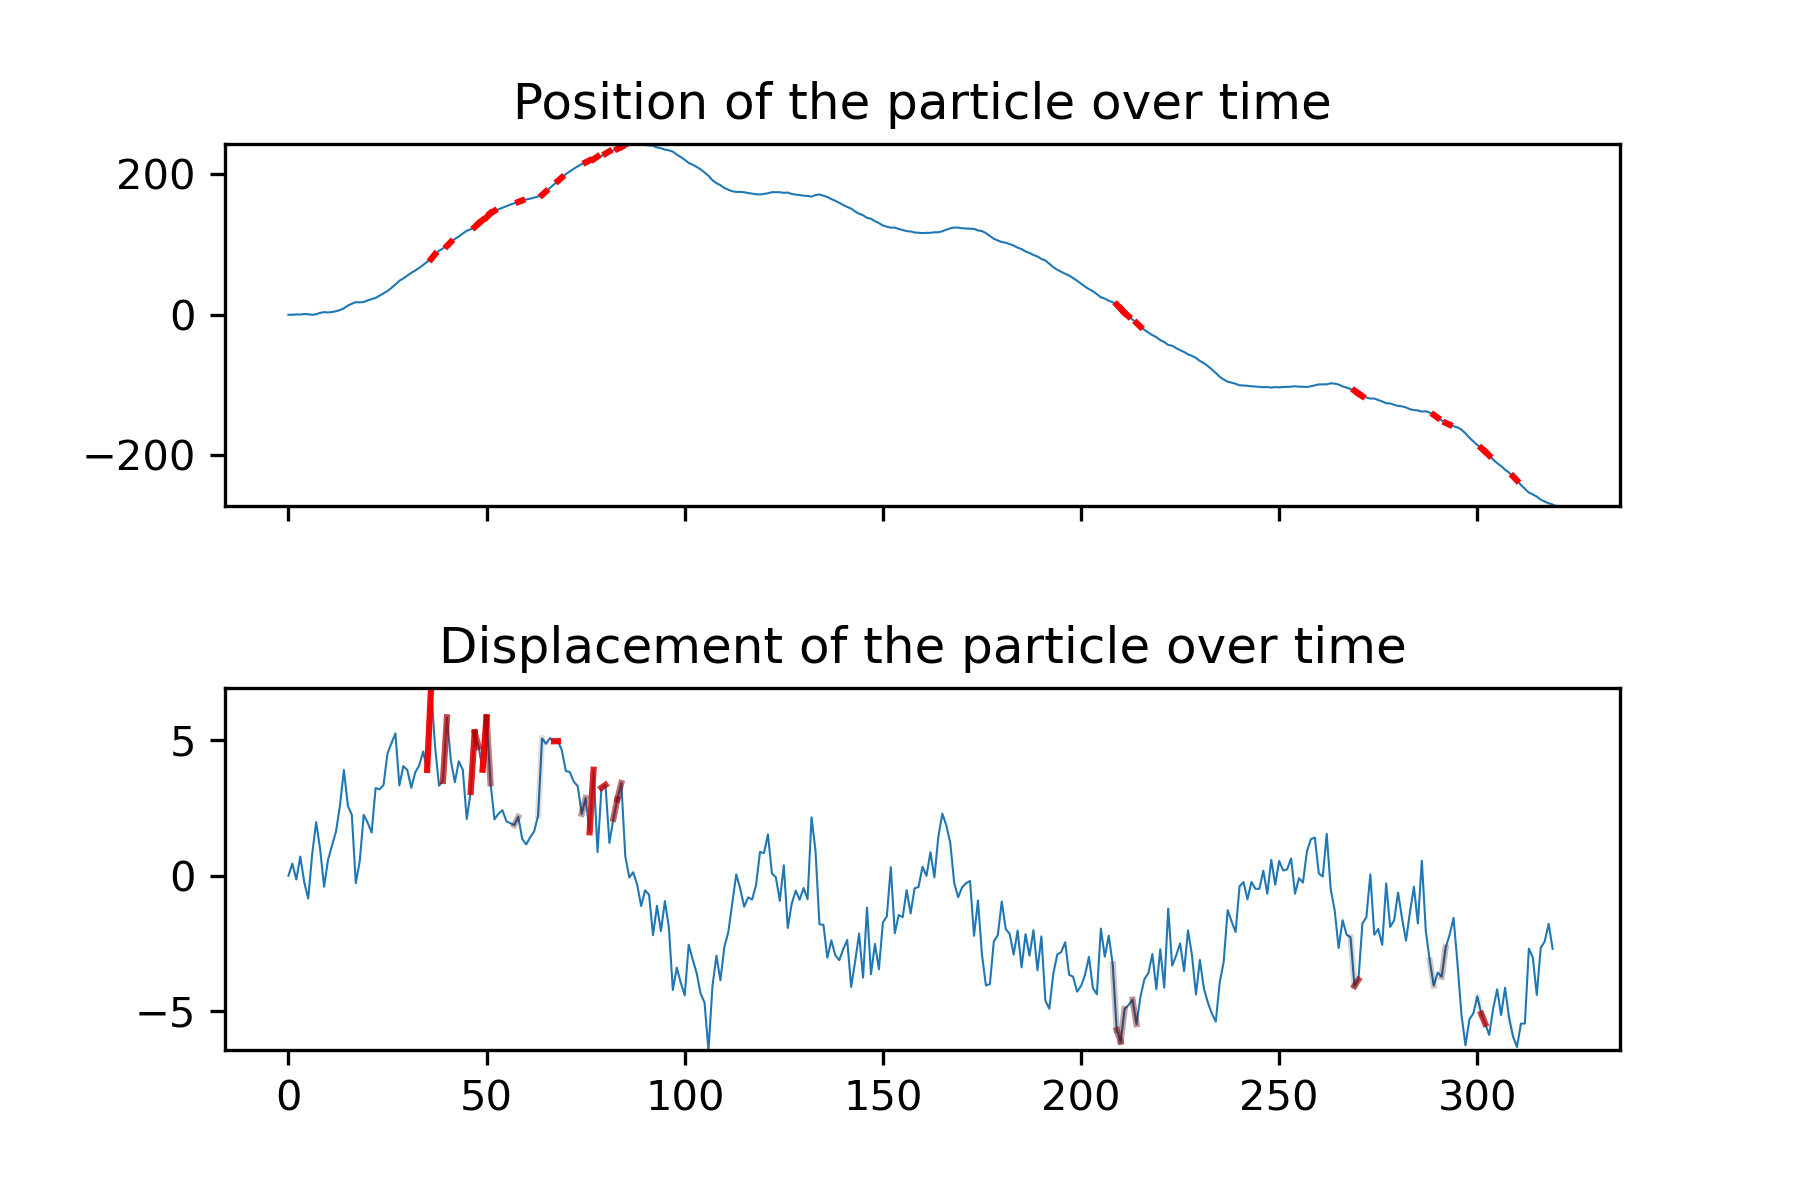
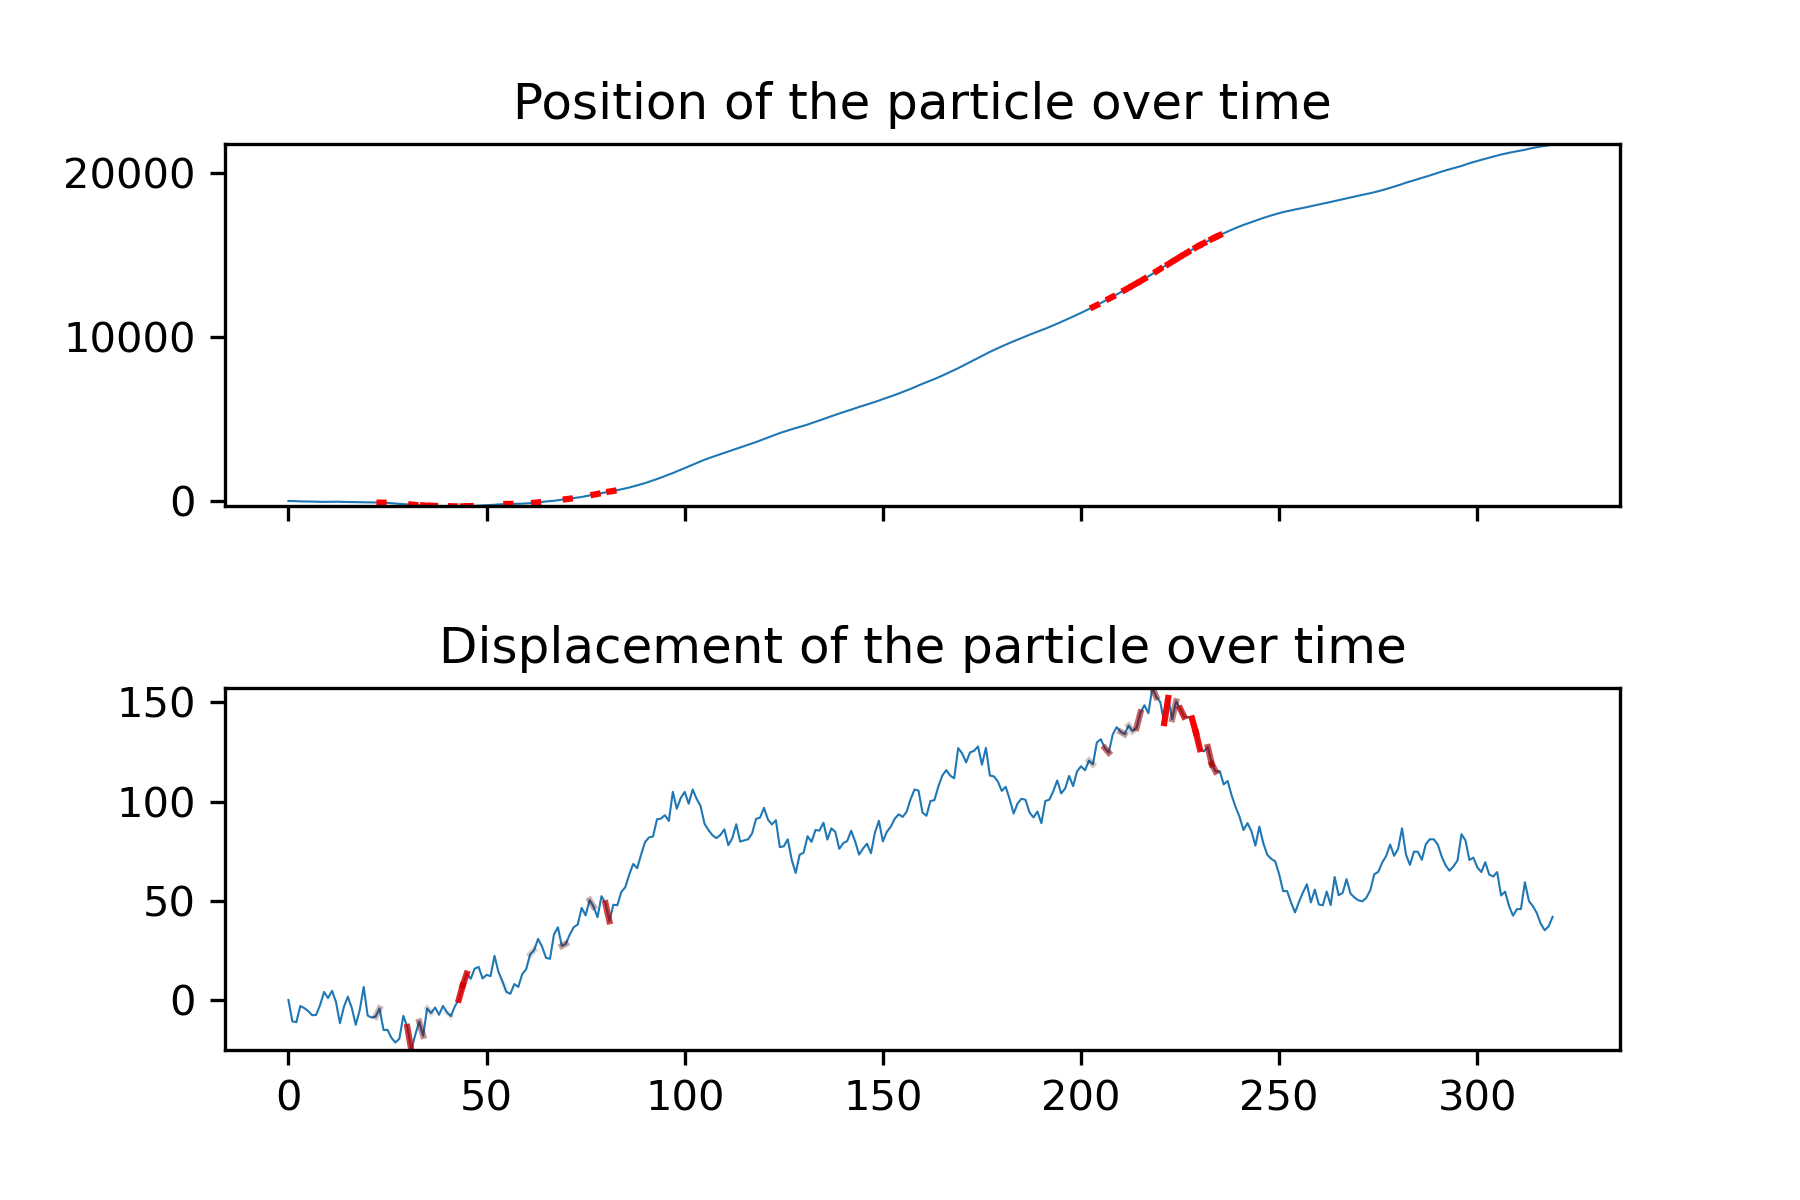
Made code to generate trajectory information on all the types

diff --git a/abandonallhope.py b/abandonallhope.py
@@ -11,6 +11,7 @@ from andi_datasets.datasets_challenge import challenge_theory_dataset
 import numpy as np
 import os
 import seaborn as sn
+from playsound import playsound
 
 tf.compat.v1.disable_eager_execution()
 
@@ -20,10 +21,7 @@ model = keras.models.load_model('/home/alex/Desktop/KURF/Scripts/Models/Convolut
 
 
 
-X1, Y1, test_data, test_check, X3, Y3 = challenge_theory_dataset(N=1,tasks=2,dimensions=1,min_T=min_T,max_T=min_T+1,load_dataset=False,path_datasets='./datasets')
-
-library = test_data[0][0]
-
+X1, Y1, test_data, test_check, X3, Y3 = challenge_theory_dataset(N=100,tasks=2,dimensions=1,min_T=min_T,max_T=min_T+1,load_dataset=False,path_datasets='./datasets')
 
 
 for pos, traj in enumerate(test_data[0]):
@@ -34,19 +32,28 @@ for pos, traj in enumerate(test_data[0]):
     sd = (sum([((x - avg) ** 2) for x in test_data[0][pos]]) / len(test_data[0][pos]))**0.5
     test_data[0][pos] = [(i-avg)/sd for i in test_data[0][pos]]
 print('Trajectories generated and culled\n')
+library = test_data[0]
+traj_type = test_check[0]
 
 
+Plottable = [[] for i in range(5)]
+forlater = [0 for i in range(5)]
 
-data = np.array(test_data[0])
-data = np.resize(data,(1,320,1)) # Resize the data otherwise it wont work, nothign changes in terms of the structure though
+for pos,trajectory in enumerate(library):
+    if Plottable[int(traj_type[pos])] == []:
+        Plottable[int(traj_type[pos])] = np.resize(trajectory,(1,320,1))
+        forlater[int(traj_type[pos])] = pos
 accurate = 0
-yhat = model.predict(data,verbose=0)
-for i in range(len(yhat)):
-    if np.argmax(yhat[i]) == test_check[0][i]:
+
+
+for i in range(5):
+    yhat = model.predict(Plottable[i],verbose=0)
+    print(yhat)
+    if np.argmax(yhat) == i:
         accurate += 1
     
 
-print('The model had a {}% accuracy'.format(100*accurate/len(yhat)))
+print('The model had a {}% accuracy'.format(accurate*100/5))
 
 # Stripping the softmax activation from the model
 model_wo_sm = inn.model_wo_softmax(model)
@@ -59,8 +66,10 @@ analyzer = inn.create_analyzer(
 
 # gradient_analyzer = inn.create_analyzer("gradient", model)
 
-# Applying the analyzer
-analysis = analyzer.analyze(data)
+# # Applying the analyzer
+analysis = []
+for i in range(5):
+    analysis.append(analyzer.analyze(Plottable[i])[0])
 # Applying the analyzer
 
 
@@ -76,97 +85,138 @@ also add x-values for the displacement and make them equal to 1, therefore later
 Watch out for the fact that the initial value will be 0 in order to haev rpettier graphs, so all of the values later on will be useless
 '''
 
+
+trajectories = [library[i] for i in forlater]
 # Going to add the function that turns the displacement into position, remember the starting 0
-
-position = [0]
-for pos,delta in enumerate(library):
-    position.append(position[pos]+delta)
+fig, axs = plt.subplots(5,1,sharex=True)
+fig.tight_layout(pad=1)
+# plt.figure(figsize=(7,12))
+x_values = np.arange(0,min_T)
+models = ['attm','sbm','ctrw','fbm','lw']
+for i in range(5):
+    axs[i].plot(x_values,trajectories[i],lw=0.5)
+    axs[i].set_title('Relevant parts of trajectories described by {}'.format(models[i]))
     
-    
-x_values = np.arange(0,len(position))
 
-# Now that the values are generated, we have to find which are the n bigggest values out of analysis
 
-temp_list = [[0,0] for i in range(25)]
-sig_val = 25
-check = 1000
 
-for i in range(25):
+short = analysis[0]
+
+for model in range(5):
+    big_list = [10000]
+    bigpos = [0]
     biggest = 0
-    bigpos = 0
-    for pos,heat in enumerate(analysis[0]):
-        if biggest < heat and heat < check:
-            biggest = heat
-            bigpos = pos
-            
-    check = biggest
+    position = 0
+    for iteration in range(25):
+        for pos,significant in enumerate(analysis[model]):
+            if significant > biggest and significant<big_list[-1]:
+                biggest = significant
+                position = pos
+        big_list.append(biggest)
+        bigpos.append(position)
+        biggest = 0
+    for i in range(25):
+        pos = int(bigpos[i+1])
+
+        if pos == len(trajectories[model]):
+            curr_val = [trajectories[model][pos-1],trajectories[model][pos]]
+            x_val = [pos-1,pos]
+        else:
+            curr_val = [trajectories[model][pos],trajectories[model][pos+1]]
+            x_val = [pos,pos+1]
         
-    temp_list[i][0] = float(biggest)
-    temp_list[i][1] = bigpos
-
-print('temp_list')
-print(temp_list)
-
-# After finding the 25 values and their indices, we need to find the corresponding parts of the trajectory and 
-# figure out a smart way to plot these parts
-
-fig, axs = plt.subplots(2,1,sharex=True)
-# plt.plot(position)
-# axs[0].plot(position)
-
-
-axs[0].plot(position,lw=0.5)
-axs[1].plot(library,lw=0.5)
-
-
-for i in range(sig_val):
-    pos = temp_list[i][1]
-    if pos == len(position):
-        curr_val = [position[pos],position[pos+1]]
-        x_val = [pos,pos+1]
-    elif pos == 0:
-        curr_val = [position[pos+1],position[pos+2]]
-        x_val = [pos+1,pos+2]
-    else:
-        curr_val = [position[pos],position[pos+1]]
-        x_val = [pos,pos+1]
-    
-    axs[0].plot(x_val,curr_val,c='red')
-axs[0].set_ylim([min(position),max(position)])
-
-
-for i in range(sig_val):
-    pos = temp_list[i][1]
-    if pos == len(library):
-        curr_val = [library[pos-1],library[pos]]
-        x_val = [pos-1,pos]
-    elif pos == 0:
-        curr_val = [library[pos],library[pos+1]]
-        x_val = [pos,pos+1]
-    else:
-        curr_val = [library[pos-1],library[pos]]
-        x_val = [pos-1,pos]
-    
-    color = ((sig_val-i)/sig_val,0,0)
-    axs[1].plot(x_val,curr_val,c=color,alpha=(sig_val-i)/sig_val)
-
-axs[1].set_ylim([min(library),max(library)])
-
-plt.subplots_adjust(hspace=0.5)
-axs[0].title.set_text('Position of the particle over time')
-axs[1].title.set_text('Displacement of the particle over time')
-
-
-files = os.listdir('/home/alex/Desktop/KURF/Scripts/Plots/')
-filename= 0
-for i in files:
-    if int(i[0]) > filename:
-        filename = int(i[0])
-        print(filename)
+        axs[model].plot(x_val,curr_val,c='red')
     
 
-plt.savefig('/home/alex/Desktop/KURF/Scripts/Plots/{}.png'.format(filename+1),dpi=300)
-print('\n\n\n\n\n\n\n\n\n\n\n\n\n\n\n\n\n\n DONE \n\n\n\n\n\n\n\n\n\n\n\n\n\n\n\n\n\n')
+plt.savefig('/home/alex/Desktop/KURF/Scripts/Plots/Fivegraphs2.png',dpi=300)    
+
+
+# # Now that the values are generated, we have to find which are the n bigggest values out of analysis
+
+# temp_list = [[0,0] for i in range(25)]
+# sig_val = 25
+# check = 1000
+
+# for i in range(25):
+#     biggest = 0
+#     bigpos = 0
+#     for pos,heat in enumerate(analysis[0]):
+#         if biggest < heat and heat < check:
+#             biggest = heat
+#             bigpos = pos
+            
+#     check = biggest
+        
+#     temp_list[i][0] = float(biggest)
+#     temp_list[i][1] = bigpos
+
+
+
+# # After finding the 25 values and their indices, we need to find the corresponding parts of the trajectory and 
+# # figure out a smart way to plot these parts
+
+# # plt.plot(position)
+# # axs[0].plot(position)
+
+
+# axs[0].plot(position,lw=0.5)
+# axs[1].plot(library,lw=0.5)
+
+
+# for i in range(sig_val):
+#     pos = temp_list[i][1]
+#     if pos == len(position):
+#         curr_val = [position[pos],position[pos+1]]
+#         x_val = [pos,pos+1]
+#     elif pos == 0:
+#         curr_val = [position[pos+1],position[pos+2]]
+#         x_val = [pos+1,pos+2]
+#     else:
+#         curr_val = [position[pos],position[pos+1]]
+#         x_val = [pos,pos+1]
+    
+#     axs[0].plot(x_val,curr_val,c='red')
+# axs[0].set_ylim([min(position),max(position)])
+
+
+# for i in range(sig_val):
+#     pos = temp_list[i][1]
+#     if pos == len(library):
+#         curr_val = [library[pos-1],library[pos]]
+#         x_val = [pos-1,pos]
+#     elif pos == 0:
+#         curr_val = [library[pos],library[pos+1]]
+#         x_val = [pos,pos+1]
+#     else:
+#         curr_val = [library[pos-1],library[pos]]
+#         x_val = [pos-1,pos]
+    
+#     color = ((sig_val-i)/sig_val,0,0)
+#     axs[1].plot(x_val,curr_val,c=color,alpha=(sig_val-i)/sig_val)
+
+# axs[1].set_ylim([min(library),max(library)])
+
+# plt.subplots_adjust(hspace=0.5)
+# axs[0].title.set_text('Position of the particle over time')
+# axs[1].title.set_text('Displacement of the particle over time')
+
+
+# files = os.listdir('/home/alex/Desktop/KURF/Scripts/Plots/')
+# filename= 0
+# for i in files:
+#     if int(i[0]) > filename:
+#         filename = int(i[0])
+#         print(filename)
+    
+# '''
+# Going to cannibalize this function in order to make it into a subplot generating machine
+# Lets do it 
+# '''
+
+
+# plt.savefig('/home/alex/Desktop/KURF/Scripts/Plots/{}.png'.format(filename+1),dpi=300)
+playsound('bad-to-the-bone.mp3')
+
 
 
 

diff --git a/finalheatmap.py b/finalheatmap.py
@@ -27,7 +27,7 @@ min_T = 320
 
 
 
-X1, Y1, trajectories, num_model, X3, Y3 = challenge_theory_dataset(N=N,tasks=2,dimensions=1,min_T=min_T,max_T=min_T+1,save_dataset=True,path_datasets='./datasets')
+X1, Y1, trajectories, num_model, X3, Y3 = challenge_theory_dataset(N=N,tasks=2,dimensions=1,min_T=min_T,max_T=min_T+1,save_dataset=False,path_datasets='./datasets')
 num_model = num_model[0]
 trajectories = trajectories[0]
 
